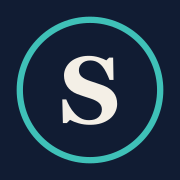
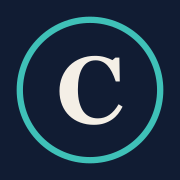
Rename product to ChairOS
- config/brand.ts: name/wordmark ChairOS, initial C; setup guide, AI
  prompts, test messages and calendar notes now read BRAND.name instead of
  hard-coding it, so the next rename is one line
- New C app icons; service worker cache bumped to v2 (icons are cached by
  fixed name) and clears the old shiv-* caches
- Manifest, offline page, README, LICENSE, package name, tests

Changed region(s): [[0.3056, 0.3056, 0.6944, 0.6944], [0.3611, 0.3333, 0.4167, 0.3889]]

diff --git a/app/(dashboard)/settings/setup-guide/page.tsx b/app/(dashboard)/settings/setup-guide/page.tsx
@@ -30,6 +30,7 @@ import {
   ArrowLeft,
   ClipboardList,
 } from 'lucide-react'
+import { BRAND } from '@/config/brand'
 
 interface SetupStep {
   title: string
@@ -322,7 +323,7 @@ const setupSections: SetupSection[] = [
           'Once verified, go to Razorpay Dashboard → Settings → API Keys',
           'Click "Generate Key" — you\'ll get a Key ID (starts with "rzp_") and a Key Secret',
           "IMPORTANT: Copy the Key Secret immediately — it's shown only once!",
-          'In Shiv Solutions, go to Settings → Billing Settings → "Payment Gateway" tab',
+          `In ${BRAND.name}, go to Settings → Billing Settings → "Payment Gateway" tab`,
           'Select "Razorpay" as the gateway',
           'Paste your Key ID and Key Secret in the fields',
           'Toggle "Test Mode" ON for testing first, then switch to OFF for live payments',
@@ -353,7 +354,7 @@ const setupSections: SetupSection[] = [
           'Complete KYC and business verification',
           'Once approved, go to PhonePe Business Dashboard → Developers → API Keys',
           'Note your Merchant ID, Salt Key, and Salt Index',
-          'In Shiv Solutions, go to Settings → Billing Settings → "Payment Gateway" tab',
+          `In ${BRAND.name}, go to Settings → Billing Settings → "Payment Gateway" tab`,
           'Select "PhonePe" as the gateway',
           'Enter your Merchant ID, Salt Key, and Salt Index',
           'Toggle Test/Live mode appropriately',
@@ -375,7 +376,7 @@ const setupSections: SetupSection[] = [
           'Complete your business KYC verification',
           'Go to Paytm Business Dashboard → Developer Settings → API Keys',
           'Note your Merchant ID (MID) and Merchant Key',
-          'In Shiv Solutions, go to Settings → Billing Settings → "Payment Gateway" tab',
+          `In ${BRAND.name}, go to Settings → Billing Settings → "Payment Gateway" tab`,
           'Select "Paytm" as the gateway',
           'Enter your Merchant ID and Merchant Key',
           'Set Website to "WEBSTAGING" for testing or "DEFAULT" for live',
@@ -408,7 +409,7 @@ const setupSections: SetupSection[] = [
           'Go to MSG91 Dashboard → API → Authkey — copy your Auth Key',
           'Create a Sender ID (6 characters, e.g., "DENTAL") — this appears as the sender name',
           'Submit Sender ID for TRAI approval (takes 1-3 business days)',
-          'In Shiv Solutions, go to Settings → Communication Settings',
+          `In ${BRAND.name}, go to Settings → Communication Settings`,
           'Toggle "Enable SMS" ON',
           'Select "MSG91" as the Gateway',
           'Paste your Auth Key and approved Sender ID',
@@ -431,7 +432,7 @@ const setupSections: SetupSection[] = [
         steps: [
           'Create an account at fast2sms.com',
           'Go to Dashboard → Dev API — copy your API Key',
-          'In Shiv Solutions, go to Settings → Communication Settings',
+          `In ${BRAND.name}, go to Settings → Communication Settings`,
           'Toggle "Enable SMS" ON',
           'Select "Fast2SMS" as the Gateway',
           'Paste your API Key',
@@ -462,7 +463,7 @@ const setupSections: SetupSection[] = [
         description:
           'If you have a business email (e.g., info@yourclinic.com) through Hostinger, GoDaddy, etc.',
         steps: [
-          'In Shiv Solutions, go to Settings → Communication Settings → Email tab',
+          `In ${BRAND.name}, go to Settings → Communication Settings → Email tab`,
           'Toggle "Enable Email" ON',
           'Enter the SMTP settings from your email provider:',
           "  — SMTP Host: e.g., smtp.hostinger.com (check your email provider's documentation)",
@@ -490,9 +491,9 @@ const setupSections: SetupSection[] = [
           'Go to your Google Account settings (myaccount.google.com)',
           'Go to Security → 2-Step Verification and enable it (required for App Passwords)',
           'Go to Security → 2-Step Verification → App Passwords',
-          'Select "Mail" as the app and "Other" as the device, name it "Shiv Solutions"',
+          `Select "Mail" as the app and "Other" as the device, name it "${BRAND.name}"`,
           'Click "Generate" — Google will show a 16-character password. Copy it immediately!',
-          'In Shiv Solutions Communication Settings:',
+          `In ${BRAND.name} Communication Settings:`,
           '  — SMTP Host: smtp.gmail.com',
           '  — SMTP Port: 587',
           '  — Username: your full Gmail address',
@@ -524,12 +525,12 @@ const setupSections: SetupSection[] = [
     guides: [
       {
         title: 'Connect Google Calendar',
-        description: 'Sync your Shiv Solutions appointments to Google Calendar automatically.',
+        description: `Sync your ${BRAND.name} appointments to Google Calendar automatically.`,
         steps: [
           'Go to Settings → Integrations',
           'In the "Google Calendar" section, click "Connect Google Calendar"',
           'A Google sign-in popup will appear — sign in with the Google account you want to sync to',
-          'Grant Shiv Solutions permission to manage your calendar events',
+          `Grant ${BRAND.name} permission to manage your calendar events`,
           'Once connected, you\'ll see a "Connected" badge with your Calendar ID',
           'Toggle "Sync Status" to Enabled',
           'Click "Sync Now" to sync existing appointments',
@@ -563,7 +564,7 @@ const setupSections: SetupSection[] = [
           '  2. Click on your clinic listing',
           '  3. Click "Write a Review"',
           "  4. Copy the URL from your browser's address bar",
-          'In Shiv Solutions, go to Settings → Communication Settings → "Google Reviews" tab',
+          `In ${BRAND.name}, go to Settings → Communication Settings → "Google Reviews" tab`,
           'Paste your Google Review URL in the field',
           'Toggle "Auto-Request Reviews" ON',
           'Set "Review Request Delay" (e.g., 2 hours — sends the request 2 hours after the appointment)',
@@ -622,21 +623,20 @@ const setupSections: SetupSection[] = [
     guides: [
       {
         title: 'Get an OpenRouter API Key',
-        description:
-          "Shiv Solutions uses OpenRouter to power its AI features. You'll need an API key.",
+        description: `${BRAND.name} uses OpenRouter to power its AI features. You'll need an API key.`,
         steps: [
           'Go to openrouter.ai and create a free account',
           'Click on your profile icon → "Keys" (or go to openrouter.ai/keys)',
-          'Click "Create Key" and give it a name like "Shiv Solutions"',
+          `Click "Create Key" and give it a name like "${BRAND.name}"`,
           'Copy the API key (starts with "sk-or-")',
-          'Add this key to your Shiv Solutions environment configuration:',
+          `Add this key to your ${BRAND.name} environment configuration:`,
           "  — In your server's .env file, add: OPENROUTER_API_KEY=sk-or-your-key-here",
           '  — Restart the application after adding the key',
-          'In Shiv Solutions, go to Settings → AI Features and toggle "Enable AI" ON',
+          `In ${BRAND.name}, go to Settings → AI Features and toggle "Enable AI" ON`,
         ],
         tips: [
           'OpenRouter provides access to multiple AI models at competitive prices',
-          'Shiv Solutions uses cost-effective models — typical monthly cost is ₹100-500 for a small clinic',
+          `${BRAND.name} uses cost-effective models — typical monthly cost is ₹100-500 for a small clinic`,
           'You can set a monthly budget limit in AI Settings to control spending',
           'Start with "Economy" model and upgrade to "Quality" if needed',
         ],
@@ -692,7 +692,7 @@ const setupSections: SetupSection[] = [
           'The device will appear in the dashboard with a "Pending" status until it sends its first data',
         ],
         tips: [
-          'Each device needs an API key to send data to Shiv Solutions',
+          `Each device needs an API key to send data to ${BRAND.name}`,
           'Contact your device manufacturer for integration documentation',
           'Device data is stored securely and can be viewed in real-time from the dashboard',
           'You can deactivate a device without deleting its historical data',

diff --git a/app/api/settings/communications/test/route.ts b/app/api/settings/communications/test/route.ts
@@ -2,6 +2,7 @@ import { NextRequest, NextResponse } from 'next/server'
 import { requireAuthAndRole } from '@/lib/api-helpers'
 import { smsService } from '@/lib/services/sms.service'
 import { emailService } from '@/lib/services/email.service'
+import { BRAND } from '@/config/brand'
 
 // POST - Test SMS or email connection
 export async function POST(request: NextRequest) {
@@ -38,7 +39,7 @@ export async function POST(request: NextRequest) {
         // Send test SMS
         const testMessage =
           testData.message ||
-          'This is a test message from Shiv Solutions. Your SMS gateway is configured correctly.'
+          `This is a test message from ${BRAND.name}. Your SMS gateway is configured correctly.`
 
         await smsService.sendSMS({
           phone: testData.phone,
@@ -77,7 +78,7 @@ export async function POST(request: NextRequest) {
         await emailService.initialize()
 
         // Send test email
-        const testSubject = testData.subject || 'Test Email from Shiv Solutions'
+        const testSubject = testData.subject || `Test Email from ${BRAND.name}`
 
         const testBody =
           testData.body ||
@@ -85,12 +86,12 @@ export async function POST(request: NextRequest) {
           <div style="font-family: Arial, sans-serif; padding: 20px;">
             <h2>Email Configuration Test</h2>
             <p>Hello,</p>
-            <p>This is a test email from Shiv Solutions.</p>
+            <p>This is a test email from ${BRAND.name}.</p>
             <p>If you're receiving this email, your SMTP settings are configured correctly.</p>
             <hr style="margin: 20px 0; border: none; border-top: 1px solid #ddd;">
             <p style="color: #666; font-size: 12px;">
               Sent from Dental Hospital Management System<br>
-              Shiv Solutions
+              ${BRAND.name}
             </p>
           </div>
         `

diff --git a/public/offline.html b/public/offline.html
@@ -4,7 +4,7 @@
     <meta charset="utf-8" />
     <meta name="viewport" content="width=device-width, initial-scale=1" />
     <meta name="theme-color" content="#111c33" />
-    <title>Offline | Shiv Solutions</title>
+    <title>Offline | ChairOS</title>
     <style>
       :root {
         --bg: #f9f7f3;
@@ -53,10 +53,10 @@
       }
       .mark {
         font-family: Georgia, serif;
-        letter-spacing: 0.2em;
+        letter-spacing: 0.02em;
         font-weight: 700;
         color: var(--teal);
-        font-size: 14px;
+        font-size: 20px;
         margin: 0 0 20px;
       }
       h1 {
@@ -85,7 +85,7 @@
   </head>
   <body>
     <main class="card">
-      <p class="mark">SHIV SOLUTIONS</p>
+      <p class="mark">ChairOS</p>
       <h1>Can't reach the clinic server</h1>
       <p>
         Check your internet connection. If you're connecting through Tailscale, make sure it's

diff --git a/app/api/ai/command/route.ts b/app/api/ai/command/route.ts
@@ -5,6 +5,7 @@ import { buildContext, serializeContext } from '@/lib/ai/context-builder'
 import { complete, extractJSON } from '@/lib/ai/openrouter'
 import { getModelByTier } from '@/lib/ai/models'
 import { executeIntent } from '@/lib/ai/command-executors'
+import { BRAND } from '@/config/brand'
 
 // ---------------------------------------------------------------------------
 // Intent definitions — the AI outputs one of these intents
@@ -64,7 +65,7 @@ ANALYTICS:
 `.trim()
 
 function commandParserPrompt(contextStr: string, today: string) {
-  return `You are a command parser for Shiv Solutions. Parse the user's natural-language command into a structured action.
+  return `You are a command parser for ${BRAND.name}. Parse the user's natural-language command into a structured action.
 
 Available intents:
 ${INTENTS}

diff --git a/public/sw.js b/public/sw.js
@@ -11,8 +11,8 @@
  *
  * Bump VERSION to drop every old cache on the next visit.
  */
-const VERSION = 'v1'
-const STATIC_CACHE = `shiv-static-${VERSION}`
+const VERSION = 'v2'
+const STATIC_CACHE = `chairos-static-${VERSION}`
 const SHELL = ['/offline.html', '/icon-192.png', '/icon-512.png', '/manifest.json']
 
 self.addEventListener('install', (event) => {
@@ -27,7 +27,9 @@ self.addEventListener('activate', (event) => {
       .then((keys) =>
         Promise.all(
           keys
-            .filter((k) => k.startsWith('shiv-') && k !== STATIC_CACHE)
+            .filter(
+              (k) => (k.startsWith('chairos-') || k.startsWith('shiv-')) && k !== STATIC_CACHE
+            )
             .map((k) => caches.delete(k))
         )
       )

diff --git a/config/brand.ts b/config/brand.ts
@@ -6,12 +6,12 @@
  * sign-up and in Settings → Clinic, and they show in the sidebar.
  */
 export const BRAND = {
-  /** Used in sentences: "Sign in to your Shiv Solutions account". */
-  name: 'Shiv Solutions',
+  /** Used in sentences: "Sign in to your ChairOS account". */
+  name: 'ChairOS',
   /** Display wordmark on the login and sign-up screens. */
-  wordmark: 'SHIV SOLUTIONS',
+  wordmark: 'ChairOS',
   /** Single-letter mark used where there is no room for the name. */
-  initial: 'S',
+  initial: 'C',
   /** What the product is, for page titles and the app manifest. */
   tagline: 'Dental Clinic Management',
   version: 'v1.0',

diff --git a/app/api/ai/suggestions/route.ts b/app/api/ai/suggestions/route.ts
@@ -4,9 +4,10 @@ import { prisma } from '@/lib/prisma'
 import { buildContext, serializeContext } from '@/lib/ai/context-builder'
 import { complete, extractJSON } from '@/lib/ai/openrouter'
 import { getModelByTier } from '@/lib/ai/models'
+import { BRAND } from '@/config/brand'
 
 function suggestionsPrompt(contextStr: string, page: string) {
-  return `You are the context-aware suggestion engine for Shiv Solutions.
+  return `You are the context-aware suggestion engine for ${BRAND.name}.
 
 Based on the current page and context, suggest 2–3 short, actionable items the user might want to do RIGHT NOW.
 

diff --git a/app/(auth)/layout.tsx b/app/(auth)/layout.tsx
@@ -5,7 +5,7 @@ export default function AuthLayout({ children }: { children: React.ReactNode }) 
   return (
     <div className="h-screen overflow-y-auto bg-gradient-to-br from-primary/5 via-background to-primary/5">
       <div className="min-h-screen flex flex-col items-center justify-center py-8">
-        <p className="mb-6 font-serif text-lg font-semibold tracking-[0.2em] text-primary">
+        <p className="mb-6 font-serif text-2xl font-bold tracking-tight text-primary">
           {BRAND.wordmark}
         </p>
         <div className="w-full max-w-md space-y-4 px-4">

diff --git a/lib/services/google-calendar.ts b/lib/services/google-calendar.ts
@@ -1,4 +1,5 @@
 import prisma from '@/lib/prisma'
+import { BRAND } from '@/config/brand'
 
 // Google Calendar OAuth2 and sync service
 // Uses Google Calendar API v3 via REST (no googleapis package needed)
@@ -160,7 +161,7 @@ export async function createCalendarEvent(
       `Doctor: ${appointment.doctorName}`,
       `Type: ${appointment.appointmentType}`,
       appointment.chiefComplaint ? `Chief Complaint: ${appointment.chiefComplaint}` : '',
-      `\nManaged by Shiv Solutions`,
+      `\nManaged by ${BRAND.name}`,
     ]
       .filter(Boolean)
       .join('\n'),

diff --git a/app/(onboarding)/layout.tsx b/app/(onboarding)/layout.tsx
@@ -15,7 +15,7 @@ export default async function OnboardingLayout({ children }: { children: React.R
   return (
     <div className="min-h-screen bg-background">
       <header className="border-b bg-card px-4 py-4 md:px-8">
-        <p className="font-serif text-lg font-semibold tracking-[0.2em] text-primary">
+        <p className="font-serif text-2xl font-bold tracking-tight text-primary">
           {BRAND.wordmark}
         </p>
       </header>

diff --git a/tests/unit/ai-openrouter.test.ts b/tests/unit/ai-openrouter.test.ts
@@ -118,7 +118,7 @@ describe('complete', () => {
     const headers = (options as RequestInit).headers as Record<string, string>
     expect(headers['Authorization']).toBe('Bearer test-openrouter-api-key')
     expect(headers['Content-Type']).toBe('application/json')
-    expect(headers['X-Title']).toBe('Shiv Solutions AI')
+    expect(headers['X-Title']).toBe('ChairOS AI')
     expect(headers['HTTP-Referer']).toBe('http://localhost:3000')
   })
 

diff --git a/tests/unit/email-helpers.test.ts b/tests/unit/email-helpers.test.ts
@@ -132,7 +132,7 @@ describe('sendVerificationEmail', () => {
 
     const html = mockSendEmail.mock.calls[0][0].body
     expect(html).toContain('<!DOCTYPE html>')
-    expect(html).toContain('Shiv Solutions')
+    expect(html).toContain('ChairOS')
     expect(html).toContain('Verify your email')
     expect(html).toContain('24 hours') // expiry note
   })
